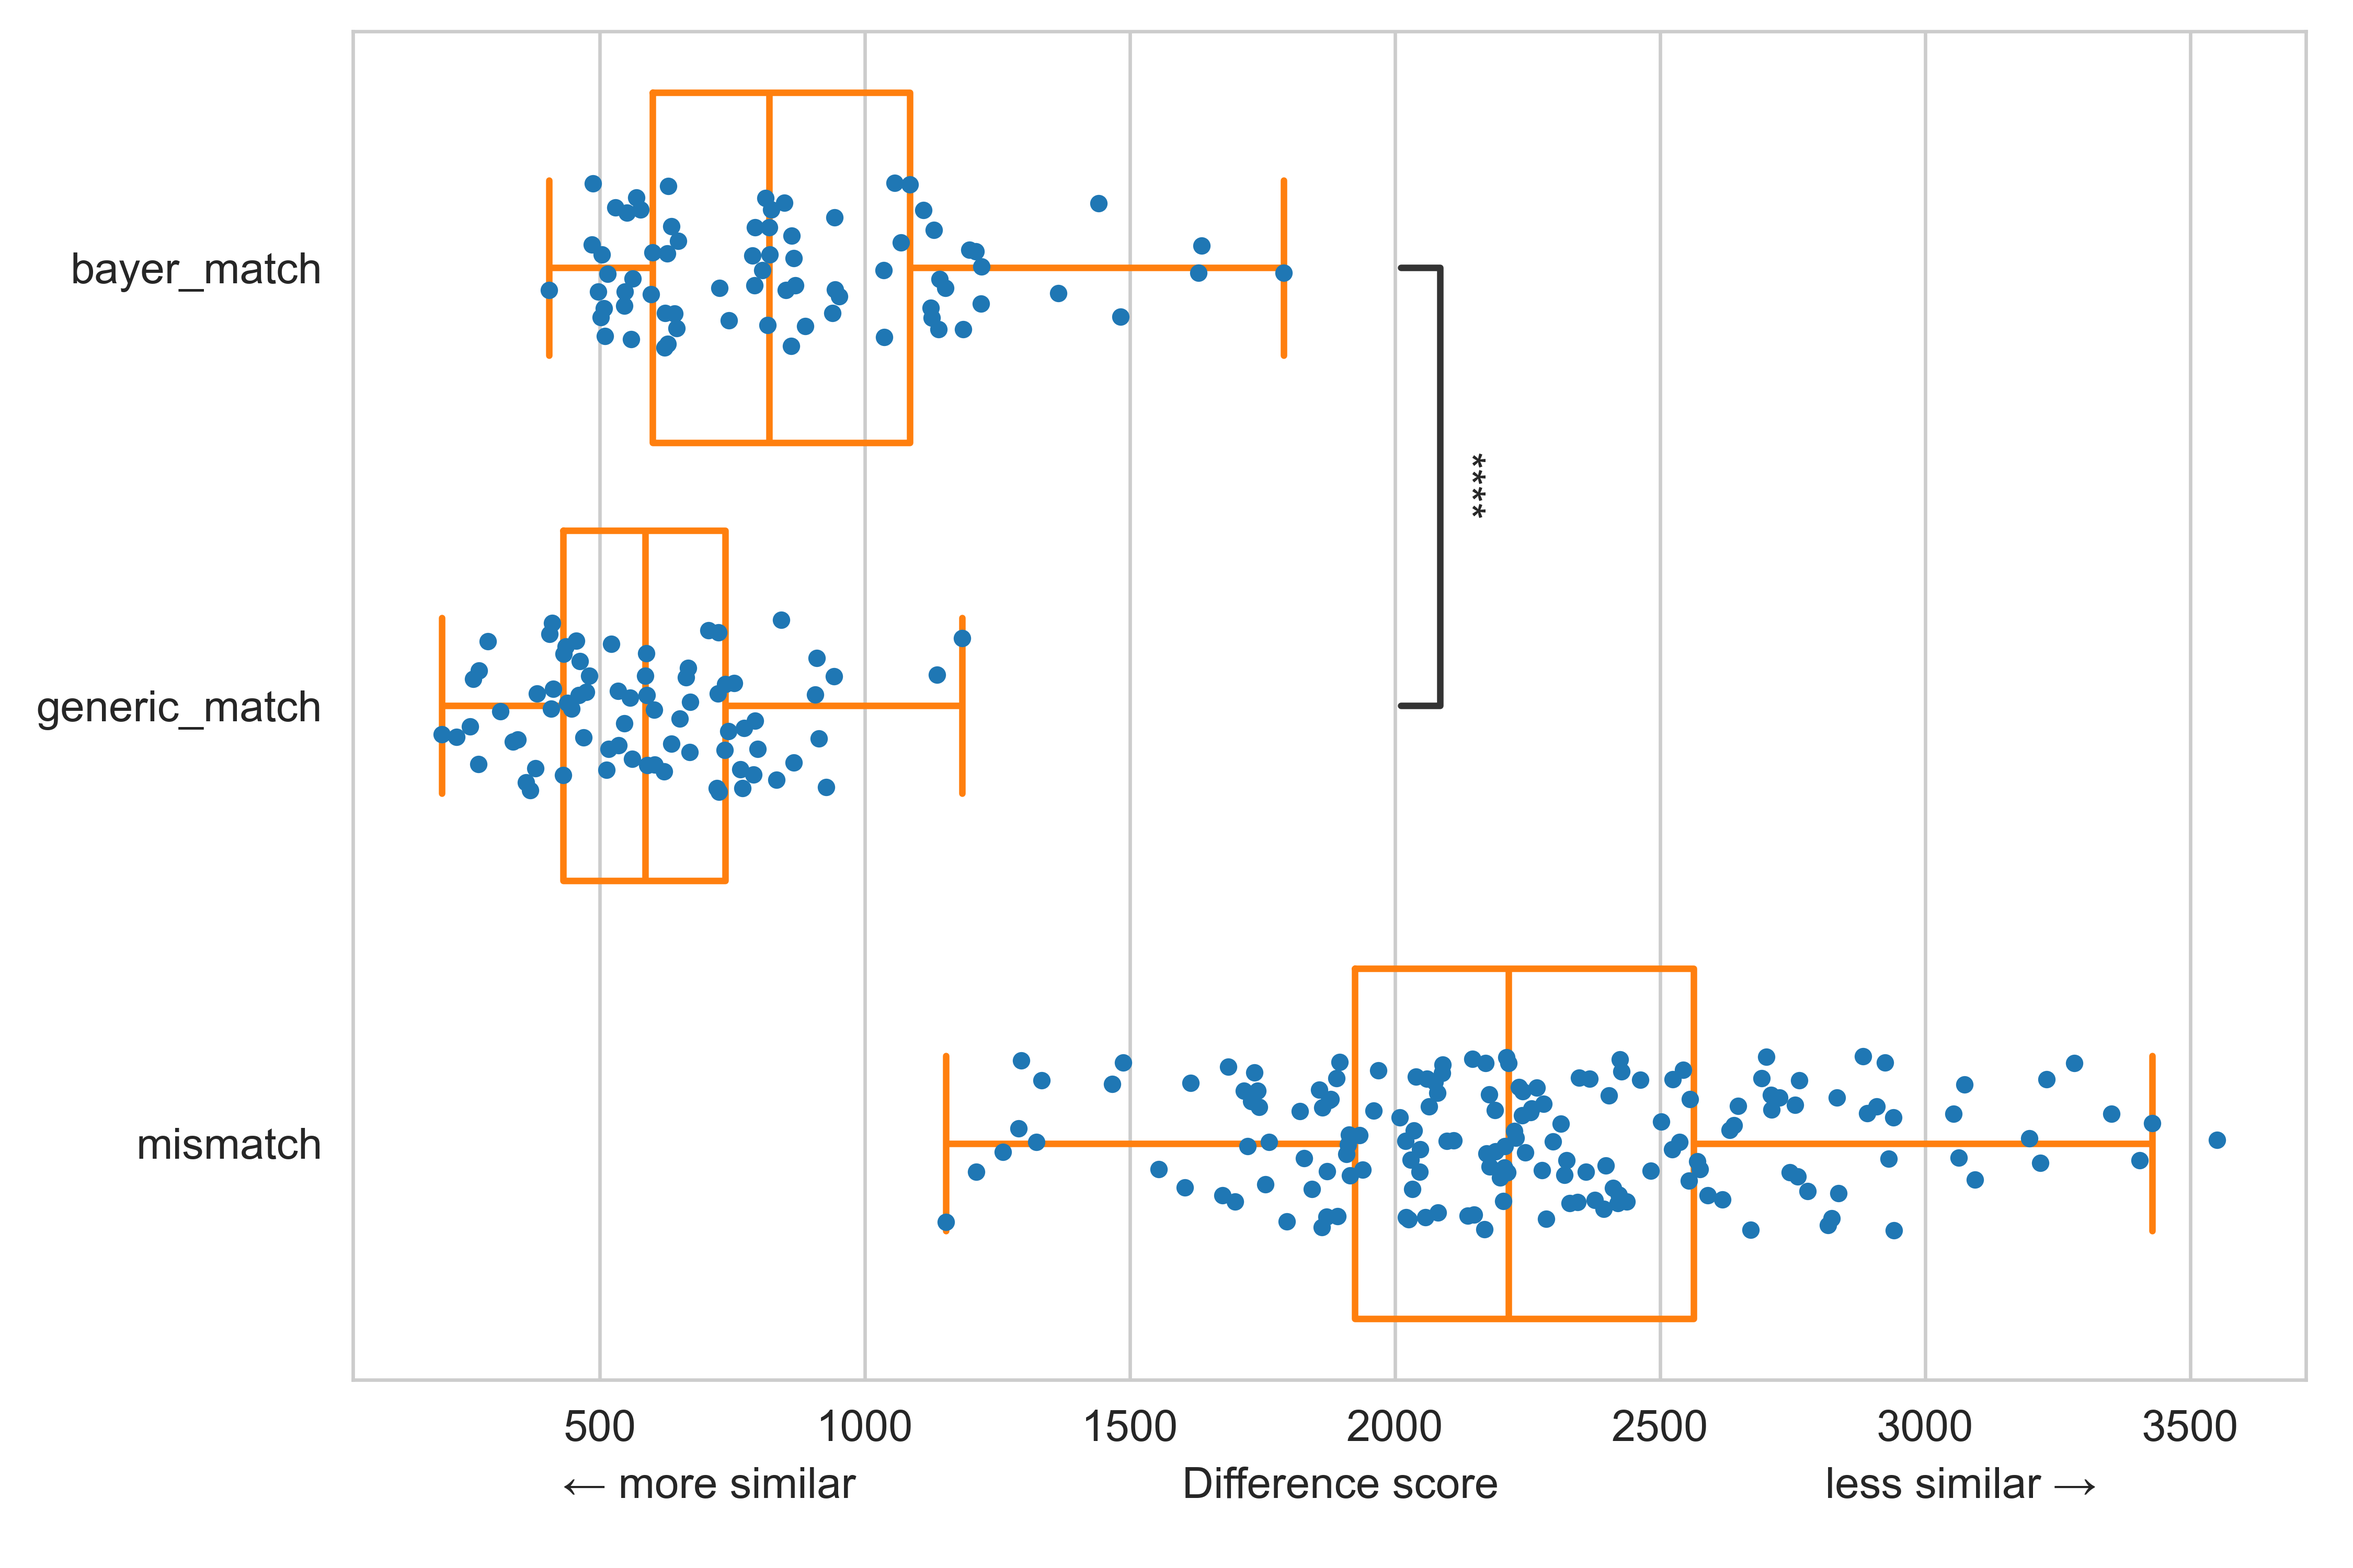
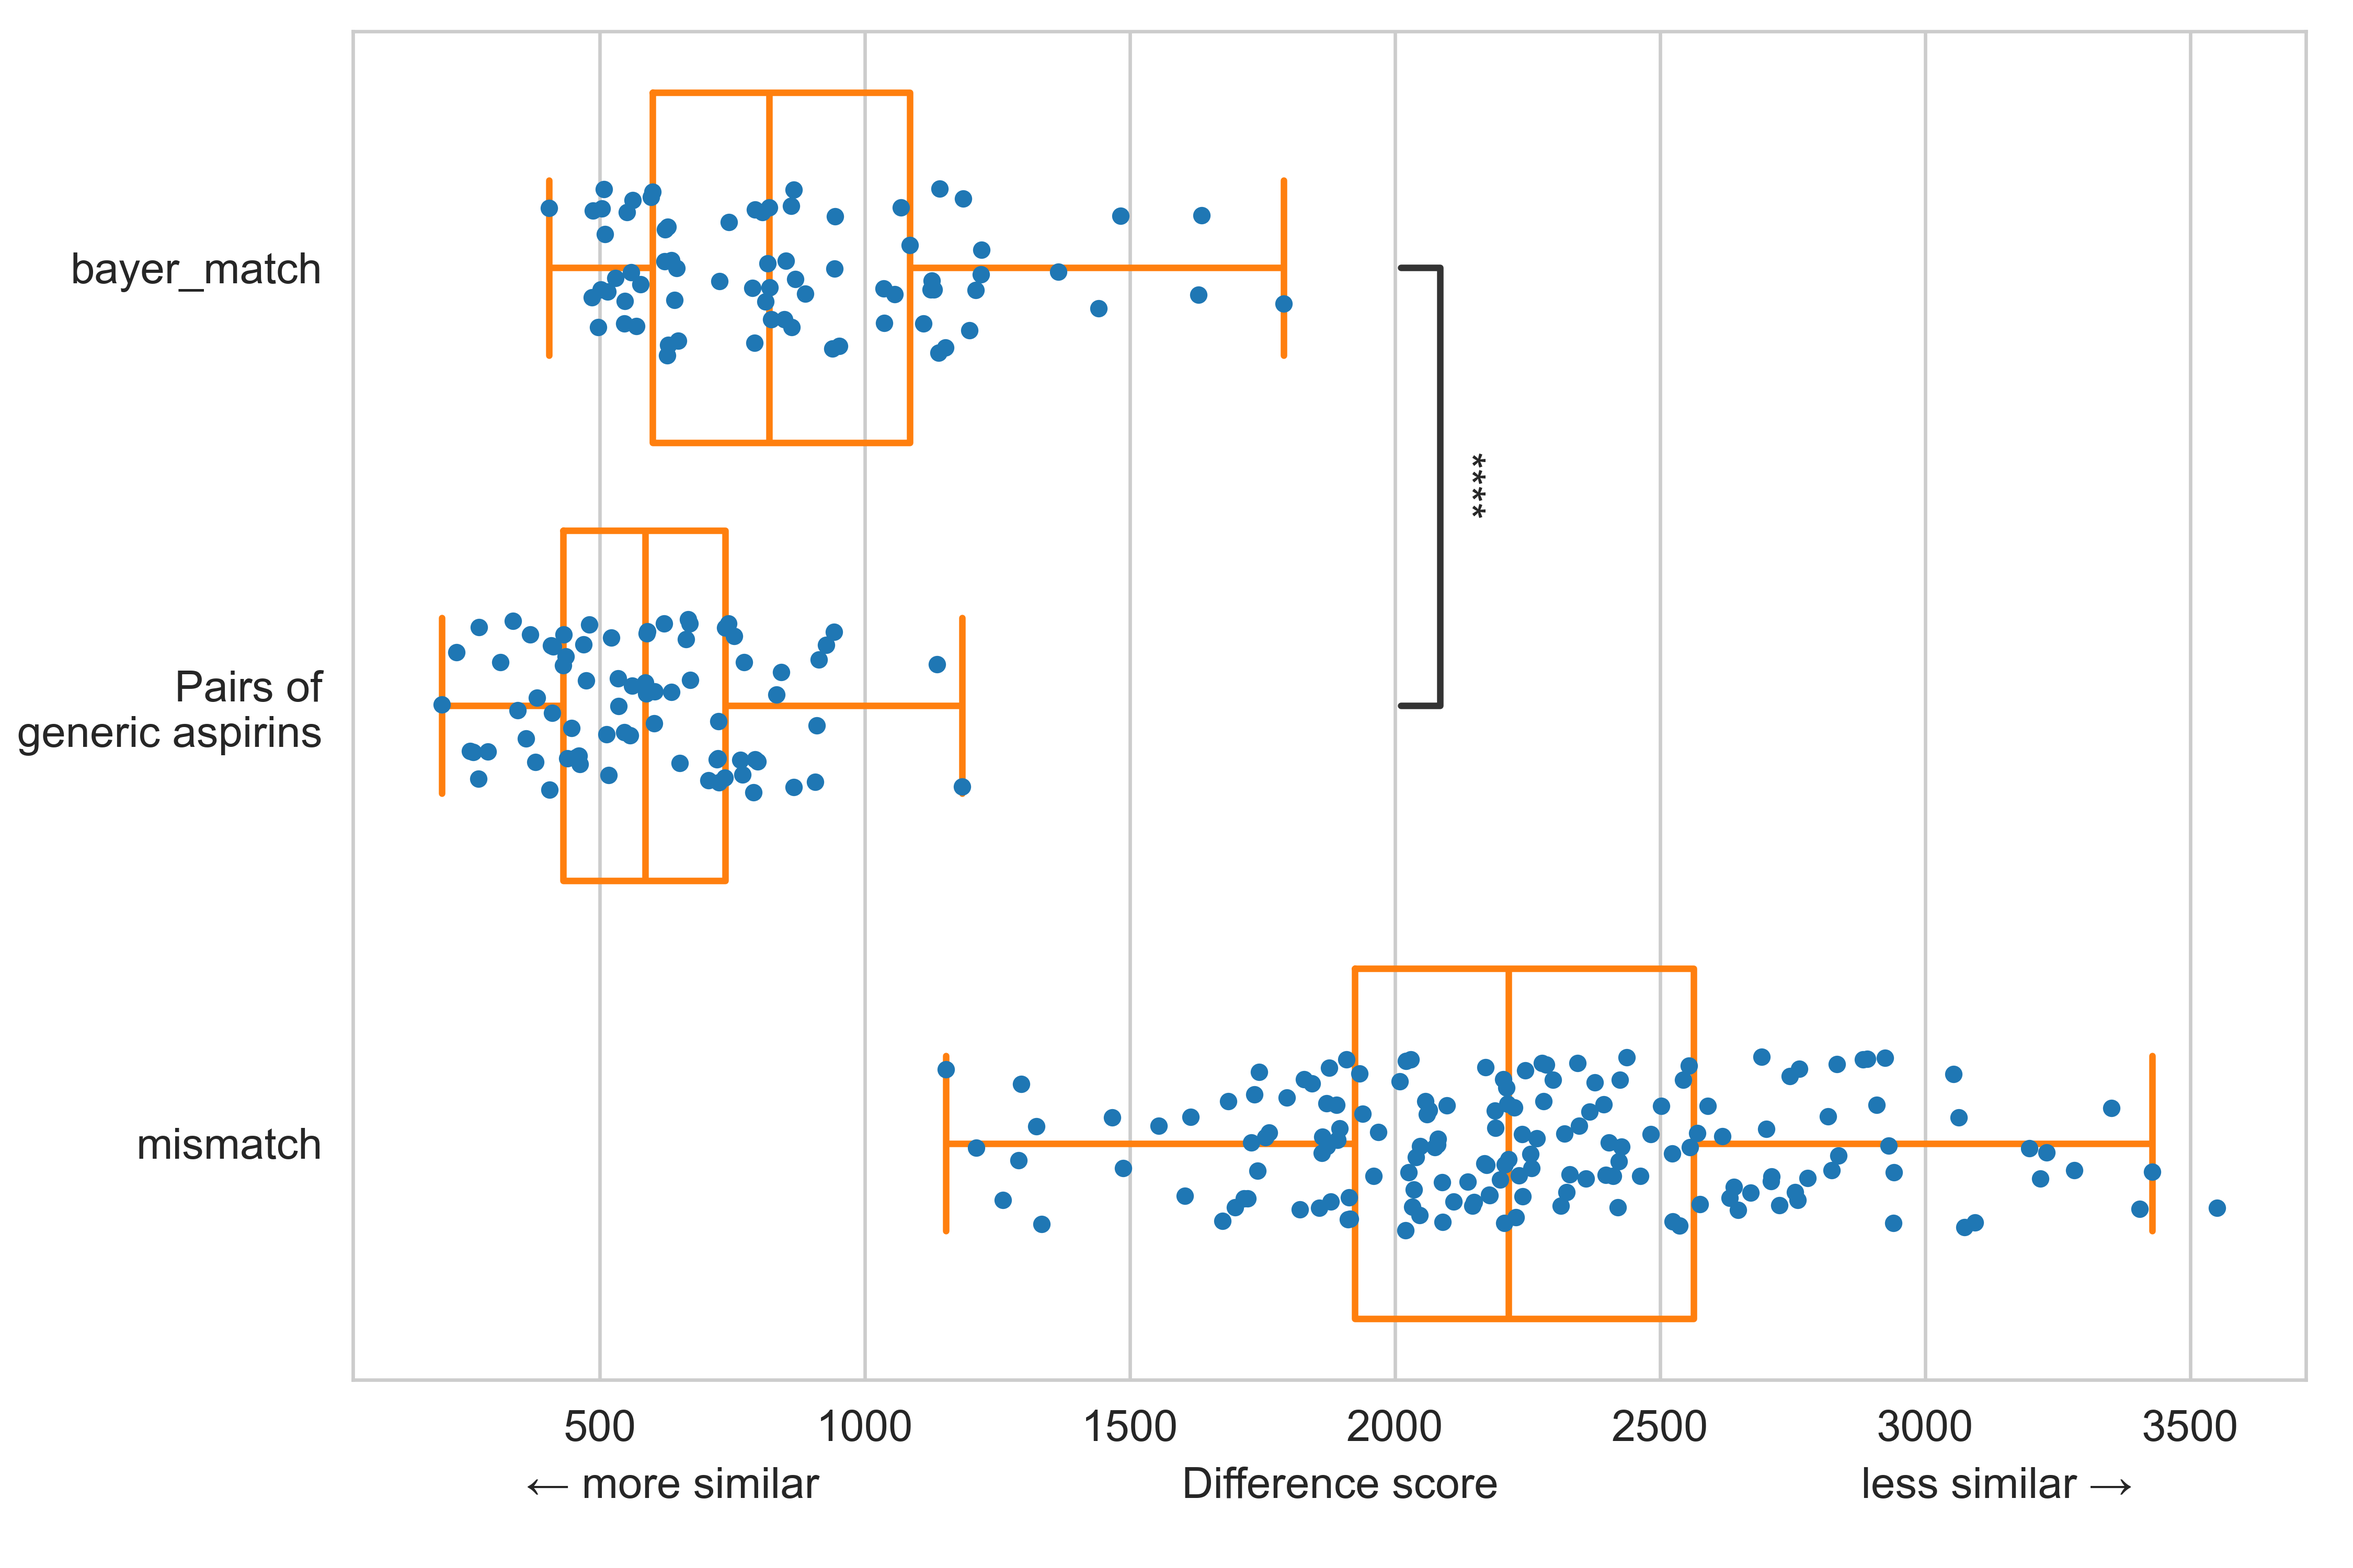
starting on significance plot labels

diff --git a/df-significance.py b/df-significance.py
@@ -40,7 +40,7 @@ if args.figure == "aspirin":
 			# print(x, i[0], y, i[2], i[4], end=" ")  # full
 			if i[1] == "generic" and i[3] == "generic":
 				print("GENERIC MATCH")
-				uber.append(["generic_match", i[4]])
+				uber.append(["Pairs of\ngeneric aspirins", i[4]])
 			elif i[1] == "bayer" and i[3] == "bayer":
 				print("BAYER MATCH")
 				uber.append(["bayer_match", i[4]])
@@ -50,7 +50,7 @@ if args.figure == "aspirin":
 	df = pd.DataFrame(uber, columns=["drugtype", "score"])
 	df = df.drop_duplicates()
 
-	order = ["bayer_match", "generic_match", "mismatch"]
+	order = ["bayer_match", "Pairs of\ngeneric aspirins", "mismatch"]
 
 	fig, axs = plt.subplots(figsize=(7.5, 5))
 	plt.subplots_adjust(left=0.15, right=0.98, top=0.98, bottom=0.12)
@@ -58,11 +58,11 @@ if args.figure == "aspirin":
 	ax_swarm = sns.stripplot(y="drugtype", x="score", order=order, data=df, log_scale=False, jitter=0.2, size=4)
 	sns.boxplot(y="drugtype", x="score", order=order, data=df, log_scale=False, fill=False, showfliers=False)
 		
-	pairs = [("bayer_match", "generic_match"), ]
+	pairs = [("bayer_match", "Pairs of\ngeneric aspirins"), ]
 	annotator = Annotator(ax_swarm, pairs, data=df, order=order, y="drugtype", x="score", orient='h')
 	annotator.configure(test='Mann-Whitney', text_format='star')
 	annotator.apply_and_annotate()
-	axs.set_xlabel("← more similar                           Difference score                           less similar →")
+	axs.set_xlabel("← more similar                              Difference score                              less similar →")
 	axs.set_ylabel("")
 	plt.savefig("aspirin_significance.png", dpi=600)
 
